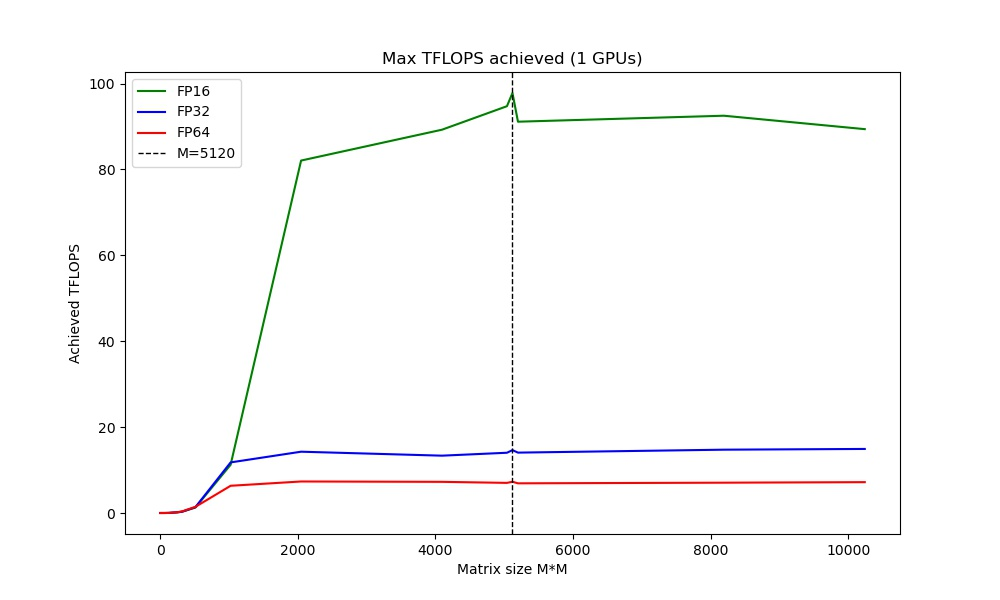
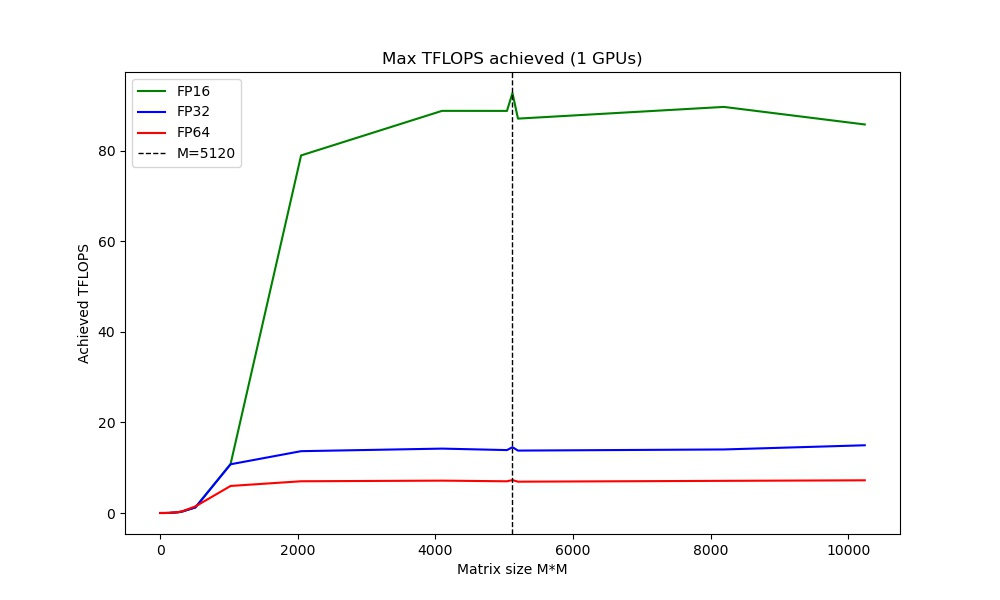
Added PBS scripts, small enhancements

diff --git a/tensorflow/gpu_burn.py b/tensorflow/gpu_burn.py
@@ -2,7 +2,7 @@ import argparse
 parser = argparse.ArgumentParser()
 parser.add_argument("--num_gpus", type=int,
                     help="Number of GPUs to use")
-parser.add_argument("--iterations", default=40, type=int,
+parser.add_argument("--iterations", default=60, type=int,
                     help="Number of iterations to run within each benchmark")
 parser.add_argument("--stats", action="store_true", default=False,
                     help="Record stats using NVStatsRecorder")
@@ -14,7 +14,7 @@ n_cores = multiprocessing.cpu_count()
 os.environ["TF_CPP_MIN_LOG_LEVEL"] = "2"
 os.environ["TF_GPU_THREAD_MODE"] = "gpu_private"
 os.environ["TF_GPU_THREAD_COUNT"] = str(n_cores)
-os.environ["TF_FORCE_GPU_ALLOW_GROWTH"] = "false"
+os.environ["TF_FORCE_GPU_ALLOW_GROWTH"] = "true"
 
 import time
 from tqdm import tqdm
@@ -41,6 +41,7 @@ def benchmark_matmul(M, gpus=1, dtype=tf.float32, iterations=100):
             A = tf.random.normal([M, M], mean=0, stddev=1, dtype=dtype)
             B = tf.random.normal([M, M], mean=0, stddev=1, dtype=dtype)
             C = do_op(A, B)
+            C = do_op(A, B)
             slots.append((A, B))
     C.numpy()
     # measure overhead
@@ -66,11 +67,12 @@ def benchmark_matmul(M, gpus=1, dtype=tf.float32, iterations=100):
 fp16_matmul, fp32_matmul, fp64_matmul = [], [], []
 fp16_tflops, fp32_tflops, fp64_tflops = [], [], []
 
-M_list = [10240, 8192, 5200, 5120, 5040, 4096, 2048, 1024, 512, 320, 256, 128, 80, 64, 32, 16, 4, 2, 1]
+M_list = [10240, 8192, 5200, 5120, 5040, 4096, 2048, 1024, 512, 320, 256, 128, 80, 64, 32, 8, 2, 1]
 
 if args.stats:
-    nv_stats_recorder = NVStatsRecorder(gpu_index=0)
-    nv_stats_recorder.start(interval=1)
+    SUDO_PASSWORD = os.environ["SUDO_PASSWORD"]
+    nv_stats_recorder = NVStatsRecorder(gpu_index=0, tensor_util=True, sudo_password=SUDO_PASSWORD)
+    nv_stats_recorder.start(interval=3)
 
 print("\nStarting burn...\n")
 
@@ -102,7 +104,7 @@ num_gpus = str(num_gpus)
     
 if args.stats:
     nv_stats_recorder.stop()
-    nv_stats_recorder.plot_gpu_util(smooth=3, outpath="graphs/burn_"+num_gpus+"_gpu_util.png")
+    nv_stats_recorder.plot_gpu_util(smooth=3, outpath="graphs/burn_"+num_gpus+"_gpu_util.jpg")
     
 title = "Max TFLOPS achieved (" + num_gpus + " GPUs)"
 print("")

diff --git a/tensorflow/resnet_tfdist.py b/tensorflow/resnet_tfdist.py
@@ -42,7 +42,7 @@ os.environ["NCCL_DEBUG"] = "WARN"
 os.environ["TF_CPP_MIN_LOG_LEVEL"] = "2"
 os.environ["TF_GPU_THREAD_MODE"] = "gpu_private"
 os.environ["TF_GPU_THREAD_COUNT"] = str(worker_threads)
-os.environ["TF_FORCE_GPU_ALLOW_GROWTH"] = "false"
+os.environ["TF_FORCE_GPU_ALLOW_GROWTH"] = "true"
 import logging
 logger = logging.getLogger()
 logger.setLevel(logging.WARN)
@@ -135,7 +135,7 @@ print("Build tf.data input pipeline")
 train = dataset["train"]
 train = train.map(format_train_example, num_parallel_calls=worker_threads)
 train = train.batch(BATCH_SIZE, drop_remainder=True)
-train = train.prefetch(16)
+train = train.prefetch(8)
 
 valid = dataset["valid"]
 valid = valid.map(format_test_example, num_parallel_calls=worker_threads)
@@ -144,7 +144,7 @@ if num_valid > 512 :
 else:
     VAL_BATCH_SIZE = num_valid//replicas
 valid = valid.batch(VAL_BATCH_SIZE, drop_remainder=False)
-valid = valid.prefetch(16)
+valid = valid.prefetch(8)
 
 train_steps = int(num_train/BATCH_SIZE)
 valid_steps = int(num_valid/VAL_BATCH_SIZE)
@@ -264,8 +264,8 @@ if args.stats:
     nv_stats_recorder = nv_stats.recorder
     nvlink_stats_recorder = nvlink_stats.recorder
     prefix = args.dataset.replace("/", "_")
-    nv_stats_recorder.plot_gpu_util(smooth=5, outpath=prefix+"_resnet_gpu_util.png")
-    nvlink_stats_recorder.plot_nvlink_traffic(smooth=5, outpath=prefix+"_resnet_nvlink_util.png")
+    nv_stats_recorder.plot_gpu_util(smooth=5, outpath=prefix+"_resnet_gpu_util.jpg")
+    nvlink_stats_recorder.plot_nvlink_traffic(smooth=5, outpath=prefix+"_resnet_nvlink_util.jpg")
 
 duration = min(time_callback.times)
 fps = train_steps*BATCH_SIZE/duration

diff --git a/tensorflow/README.md b/tensorflow/README.md
@@ -20,7 +20,7 @@ Max TFLOPS achieved (8 GPUs)
 
 | GPU Utilization | TFLOPS Plot |
 | --------------- | ----------- |
-| ![](graphs/burn_4_gpu_util.png) | ![](graphs/burn_4_gpu_tflops_plot.jpg) |
+| ![](graphs/burn_4_gpu_util.jpg) | ![](graphs/burn_4_gpu_tflops_plot.jpg) |
 
 ## Image Classification
 
@@ -36,11 +36,11 @@ python3 resnet_tfdist.py --xla --amp --batch_size 256 --lr 0.5 --img_aug --epoch
 
 | V100 | Training time | Images/sec | Val Acc |
 | ---- | ------------- | ---------- | ------- |
-| 4    | 519s          | 4274       | 0.858   |
+| 4    | 570s          | 4648       | 0.85    |
 
 | GPU Utilization | NVLink Utilization |
 | --------------- | ------------------ |
-| ![](graphs/imagenette_320px_resnet_gpu_util.png) | ![](graphs/imagenette_320px_resnet_nvlink_util.png) |
+| ![](graphs/imagenette_320px_resnet_gpu_util.jpg) | ![](graphs/imagenette_320px_resnet_nvlink_util.jpg) |
 
 **DenseNet-201 + Horovod + OpenMPI + NCCL**
 
